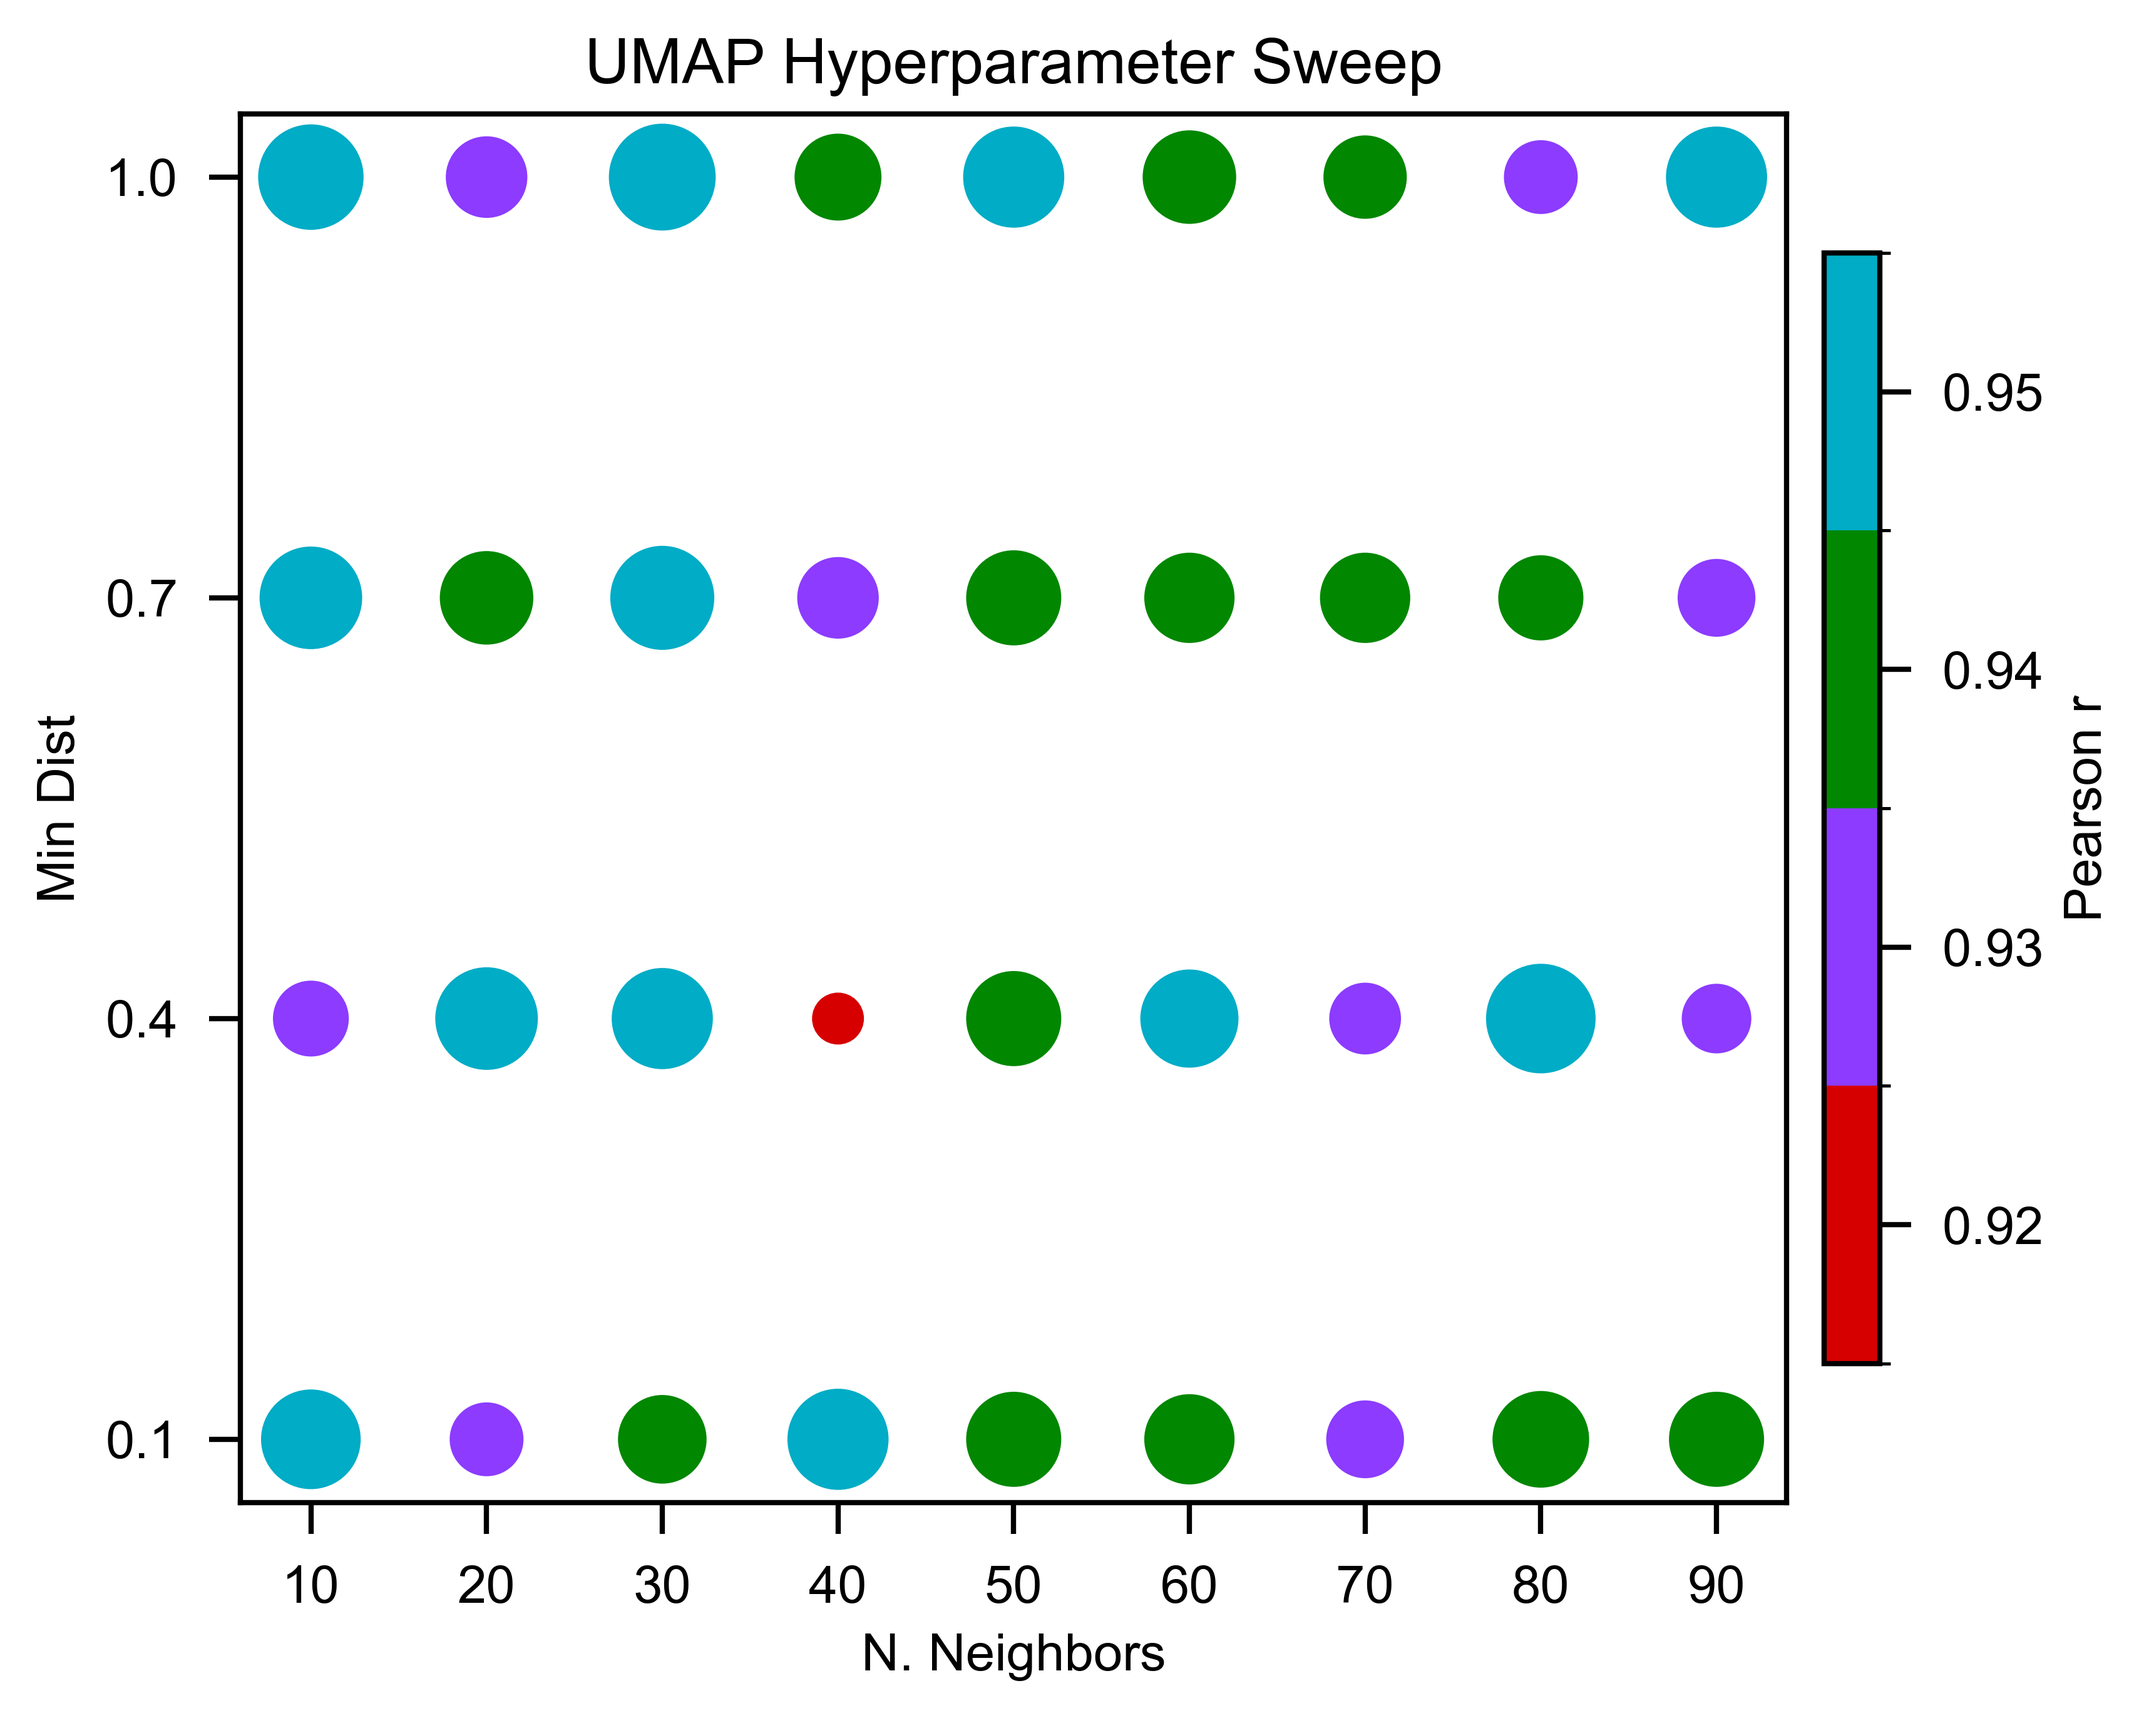
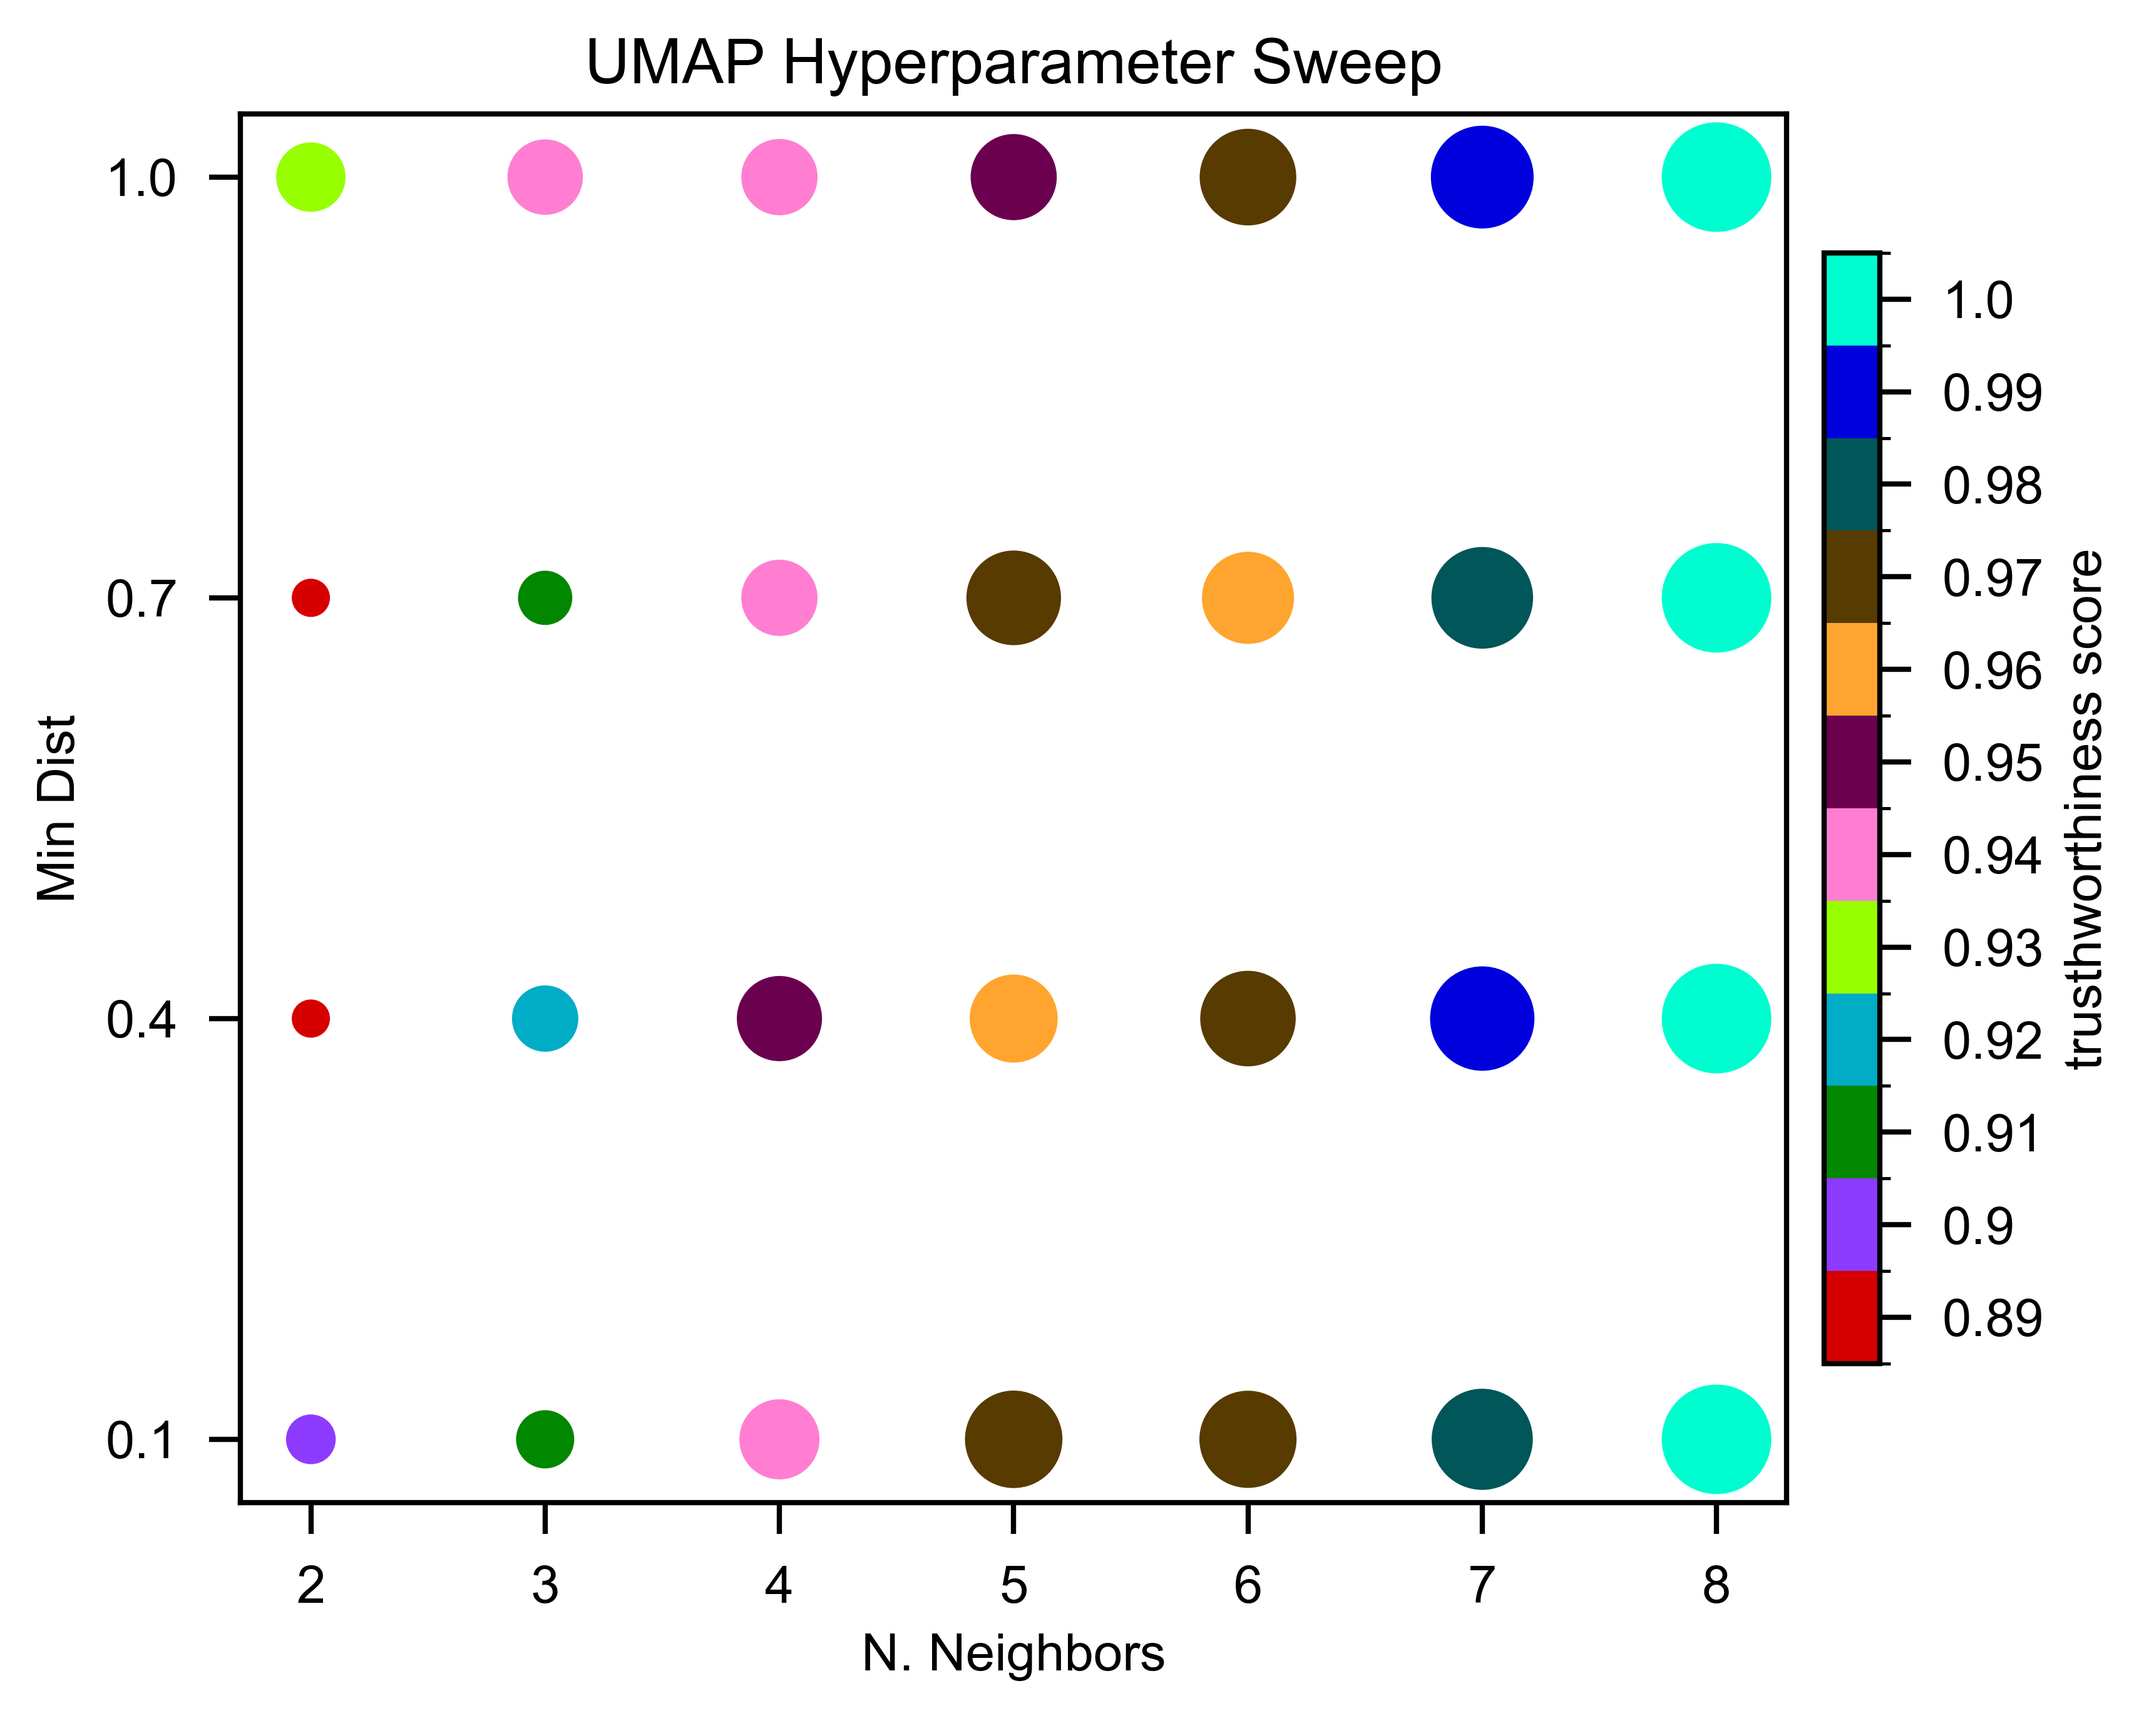
re-adding global grid search, at some point it was deleted

diff --git a/mdsa_tools/Analysis.py b/mdsa_tools/Analysis.py
@@ -695,7 +695,7 @@ class systems_analysis:
         return df
     
     
-    def perform_optimized_UMAP_local(self, feature_matrix=None,max_neighbors=None, min_neighbors=None, stepsize=None, min_dist_values=None,eval_neighbors=None):
+    def perform_optimized_UMAP_local(self, feature_matrix=None,max_neighbors=None, min_neighbors=None, stepsize=None, min_dist_values=None,eval_n=None):
         '''
         Grid-search UMAP over n_neighbors and min_dist, and for each embedding
         compute Pearson r between pdist(feature space) and pdist(embedding space).
@@ -735,14 +735,14 @@ class systems_analysis:
         min_neighbors  = min_neighbors  if min_neighbors  is not None else 10
         stepsize       = stepsize       if stepsize       is not None else 10
         min_dist_values = min_dist_values if min_dist_values is not None else (0.1, 0.4, 0.7, 1.0)
-        eval_neighbors = eval_neighbors if eval_neighbors is not None else 5
-
+        eval_n=eval_n if eval_n is not None else 15
 
         n_neighbors = np.arange(min_neighbors, max_neighbors, stepsize, dtype=int)
 
         nn_list = []
         md_list = []
-        trusthworthiness_scores = []
+        trustworthiness_scores = []
+
 
         for i in n_neighbors:
             for j in min_dist_values:  # nested sweep over min_dist for each n_neighbors
@@ -750,21 +750,26 @@ class systems_analysis:
                     feature_matrix=feature_matrix,
                     method='UMAP', n_neighbors=i, min_dist=j
                 )
+
+                from sklearn.manifold import trustworthiness
                 t = trustworthiness(
                     X=feature_matrix,
                     X_embedded=embedding_coordinates,
-                    n_neighbors=eval_neighbors
+                    n_neighbors=eval_n,
+                    metric="euclidean"
                 )
+                
                 nn_list.append(int(i))
                 md_list.append(float(j))
-                trusthworthiness_scores.append(t)
+                trustworthiness_scores.append(t)
 
-        trusthworthiness_scores=np.array(trusthworthiness_scores)
+
+        trustworthiness_scores=np.array(trustworthiness_scores)
         df = pd.DataFrame({
             "n_neighbors": nn_list,
             "min_dist": md_list,
-            "trusthworthiness_score": np.round(trusthworthiness_scores,2),
-            "bubble_size": np.interp(np.abs(trusthworthiness_scores), (np.abs(trusthworthiness_scores).min(), np.abs(trusthworthiness_scores).max()), (80, 400))
+            "trustworthiness score": np.round(trustworthiness_scores,2),
+            "bubble_size": np.interp(np.abs(trustworthiness_scores), (np.abs(trustworthiness_scores).min(), np.abs(trustworthiness_scores).max()), (40, 400))
         })
 
         return df

diff --git a/mdsa_tools/Viz.py b/mdsa_tools/Viz.py
@@ -518,10 +518,10 @@ def bubble_grid_manifoldlearning(UMAP_opt_dataframe,
             x=UMAP_opt_dataframe['n_neighbors'],
             y=UMAP_opt_dataframe['min_dist'],
             s=UMAP_opt_dataframe['bubble_size'],
-            c=UMAP_opt_dataframe['trusthworthiness_score'],
+            c=UMAP_opt_dataframe['trusthworthiness score'],
             cmap=cmap
         )
-        cbar_label='trusthworthiness_score'
+        cbar_label='trusthworthiness score'
 
         xlvls = np.sort(UMAP_opt_dataframe['n_neighbors'].unique())
         ylvls = np.sort(UMAP_opt_dataframe['min_dist'].unique())
@@ -531,7 +531,7 @@ def bubble_grid_manifoldlearning(UMAP_opt_dataframe,
 
         # your existing discrete colorbar helper
         add_discrete_colorbar(scatter,
-                            labels=UMAP_opt_dataframe['trusthworthiness_score'],
+                            labels=UMAP_opt_dataframe['trustworthiness score'],
                             ax=ax, cmap=cmap, cbar_label=cbar_label)
 
         ax.set_xlabel(xlabel)
@@ -541,8 +541,6 @@ def bubble_grid_manifoldlearning(UMAP_opt_dataframe,
         plt.savefig(savepath, dpi=dpi, bbox_inches='tight')
         plt.close()
         return
-
-    
 
 # Circos plots
 def get_Circos_coordinates(residue, gcircle, dpi=600):
